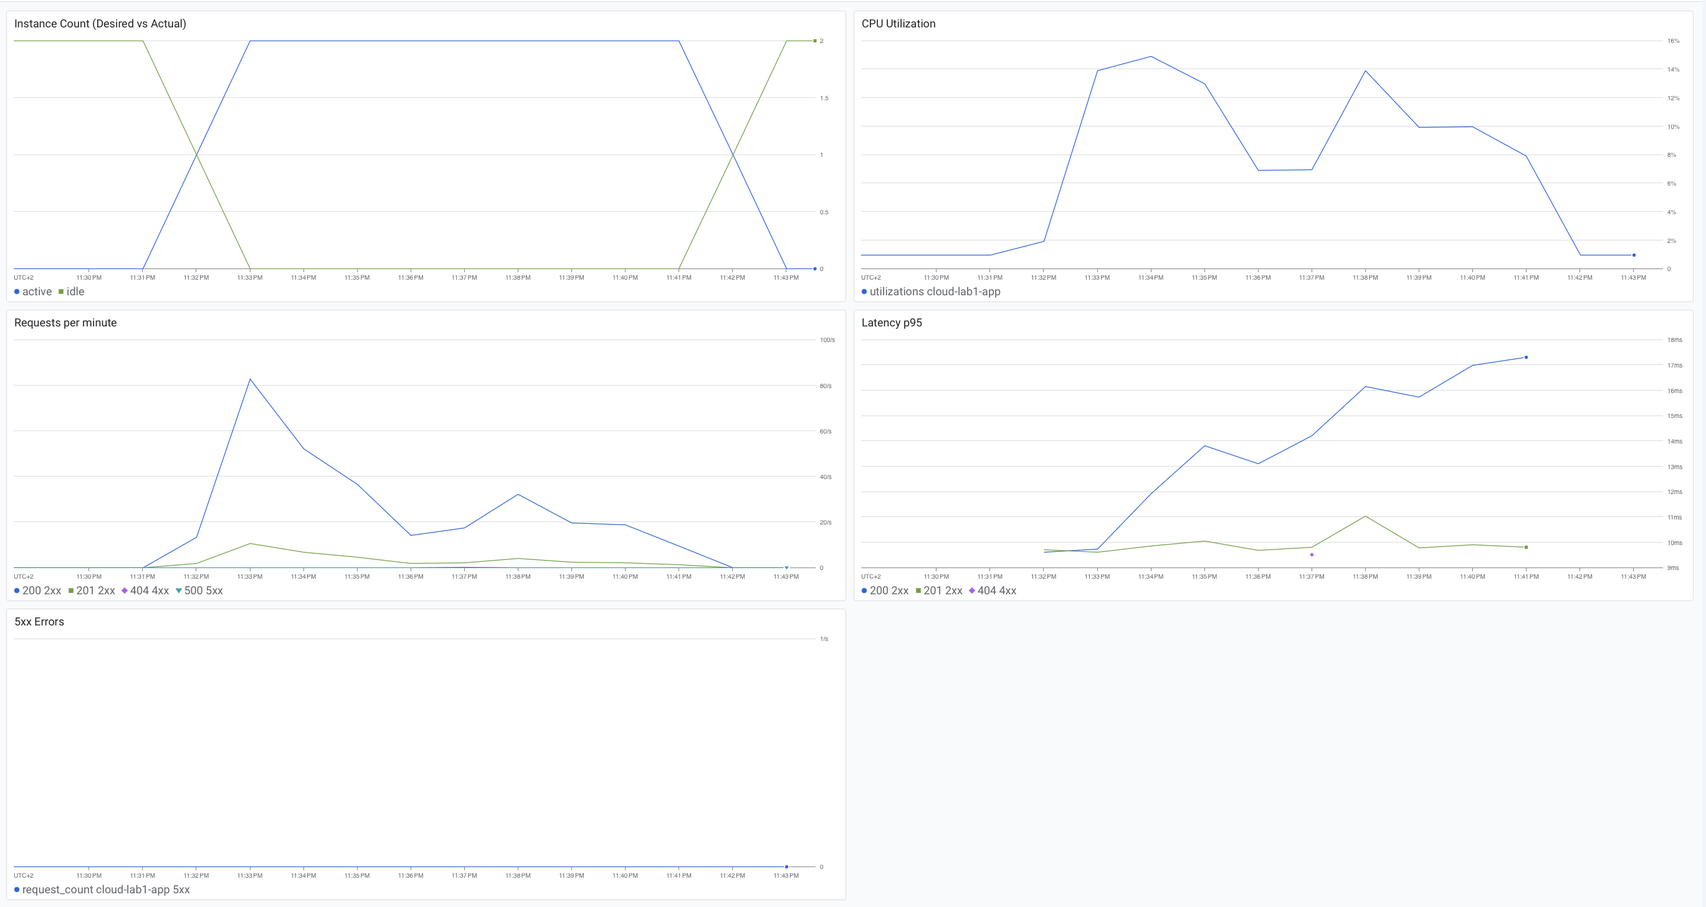
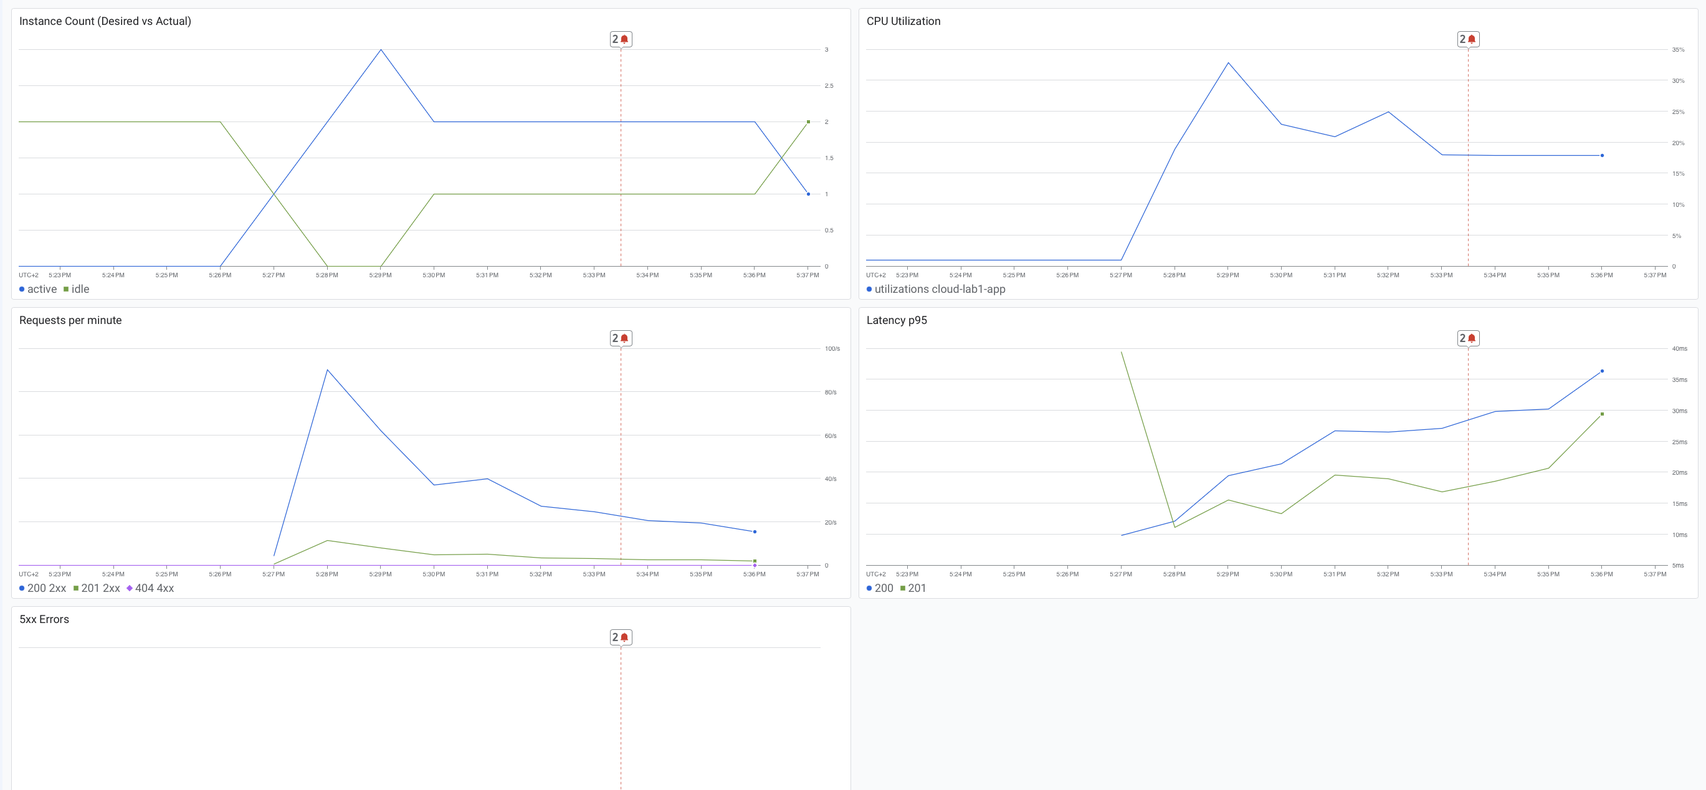
Fix

diff --git a/docs/AUTOSCALING.md b/docs/AUTOSCALING.md
@@ -2,36 +2,28 @@
 
 ## Завдання 1. Автоматичне масштабування
 
-Я налаштував політику масштабування в Terraform у файлі main.tf. Вказав мінімум 1 екземпляр (вдень 2 для надійності) і максимум 4. 
+Я налаштував політику масштабування в Terraform у файлі `main.tf`. Вказав мінімум 2 екземпляри (вдень) і максимум 4. 
 
-Чому саме 4 екземпляри? Це вимога лабораторної роботи (не більше 4). Крім того, навіть якщо навантаження буде дуже великим, це не призведе до величезних витрат.
+Щоб продемонструвати роботу автоскейлінгу, я обмежив максимальну кількість одночасних запитів на один екземпляр: `max_instance_request_concurrency = 5`. Це правильний архітектурний підхід, оскільки мій сервер працює з базою даних і не повинен обробляти занадто багато запитів одночасно (інакше база даних перевантажиться).
 
-Період стабілізації (cooldown) - це час, який система чекає перед тим, як створити новий екземпляр або видалити старий. Якщо встановити його рівним нулю, система буде реагувати на найменший стрибок навантаження. Це погано, бо екземпляри будуть постійно створюватися і видалятися (це називається flapping), що створить зайве навантаження на хмару і збільшить витрати.
+Період стабілізації (cooldown) - це час, який система чекає перед створенням або видаленням екземпляра. В Cloud Run цей параметр керується платформою автоматично. Якби він дорівнював нулю, екземпляри створювалися б і видалялися кожну секунду (flapping), що призвело б до зайвих витрат.
 
 ## Завдання 3. Панель моніторингу
 
-Для візуалізації роботи сервісу я створив панель моніторингу (Dashboard) у сервісі Google Cloud Monitoring. Ця панель також описана в коді Terraform у файлі monitoring.tf.
+Для візуалізації роботи сервісу я створив панель моніторингу (Dashboard) у сервісі Google Cloud Monitoring. Ця панель також описана в коді Terraform у файлі `monitoring.tf`.
 
-На панелі налаштовано п'ять основних графіків:
-1. Кількість екземплярів (Instance Count).
-2. Завантаження процесора (CPU Utilization).
-3. Кількість запитів за хвилину (Requests per minute).
-4. Латентність (Latency p95).
-5. Кількість помилок сервера (5xx Errors).
+На панелі налаштовано п'ять основних графіків (Requests per second, Instance Count, CPU Utilization, Latency p95, 5xx Errors).
 
-![Дашборд](dashboard.png)
+![Дашборд](Dashboard.png)
 
 Аналіз графіків під час тесту:
-- На графіку "Requests per minute" чітко видно початок навантаження, коли кількість запитів різко зросла.
-- На графіку "CPU Utilization" видно, як зросло навантаження на процесор (приблизно до 16%).
-- На графіку "Instance Count" видно, як екземпляри почали працювати (active).
-- На графіку "Latency p95" видно, як змінився час відповіді.
-- Графік "5xx Errors" залишився порожнім, що свідчить про те, що сервер не падав.
+- На графіку "Instance Count" чітко видно, як під час навантаження кількість активних екземплярів зросла з 2 до 3 (синя лінія пішла вгору). Це доводить, що автоскейлінг спрацював завдяки налаштуванню `concurrency = 5`.
+- На графіку "CPU Utilization" видно зростання до 30% (замість 16% раніше).
+- На графіку "Latency p95" є червона вертикальна лінія — це момент, коли спрацював наш алерт.
+- Графік "5xx Errors" порожній, сервер не падав.
 
 ### Чому є затримка між перетином порогу і появою екземпляра?
-Коли навантаження зростає, Cloud Run не створює новий екземпляр миттєво. Є дві причини:
-1. Період стабілізації: система чекає кілька секунд, щоб переконатися, що навантаження дійсно зросло, а не є короткочасним сплеском.
-2. Час запуску (Cold Start): після ухвалення рішення Google має виділити сервер, завантажити туди Docker-образ і запустити Node.js. Це займає додатковий час.
+Cloud Run не створює екземпляр миттєво. Є період стабілізації (щоб переконатися, що навантаження не випадкове) та час на запуск контейнера (Cold Start). Тому на графіку є невелика затримка між зростанням навантаження і появою нового екземпляра.
 
-### Чому вилучення екземплярів відбувається пізніше за падіння навантаження?
-Коли навантаження падає, Cloud Run не вимикає екземпляри одразу. Він чекає певний час (cooldown), щоб уникнути ситуації, коли навантаження знову різко зросте.
+### Чому вилучення екземплярів відбувається пізніше?
+Коли навантаження падає, Cloud Run чекає певний час перед вимкненням, щоб уникнути різких стрибків.

diff --git a/docs/CACHE.md b/docs/CACHE.md
@@ -1,23 +1,19 @@
 # Кешування (Завдання 5)
 
-Я використав схему cache-aside. Для цього підняв Redis (Memorystore) і змінив код у server.js. 
-Тепер коли приходить запит на отримання списку літаків, сервер спочатку лізе в Redis. Якщо там є дані (cache hit), він віддає їх одразу. Якщо немає (cache miss), він йде в базу даних, бере звідти дані, зберігає їх у Redis на 30 секунд і віддає клієнту.
+Я використав схему cache-aside. Для цього підняв Redis (Memorystore) і змінив код у `server.js`. 
+При запиті `GET /planes` сервер спочатку перевіряє Redis. Якщо дані є (cache hit) — віддає їх миттєво. Якщо немає (cache miss) — йде в Postgres, зберігає результат у Redis на 30 секунд і віддає клієнту.
 
-Також я додав очищення кешу (інвалідацію) при створенні, оновленні або видаленні літака. Тобто якщо дані змінилися, кеш одразу скидається, щоб користувачі не бачили стару інформацію.
+Також я додав очищення кешу (інвалідацію) при операціях POST, PUT, DELETE. Тобто якщо дані змінилися, кеш скидається, і наступний GET-запит бере свіжі дані з бази.
 
-Ось порівняння результатів тесту без кешу і з кешем:
+Ось порівняння результатів тестів (50 користувачів):
 
 | Метрика | Без кешу | З кешем |
 | :--- | :--- | :--- |
-| Латентність p50 | 551 мс | 541 мс |
-| Латентність p95 | 1.59 s | 3.2 s |
-| Запитів на секунду | 53.47 | 36.94 |
-| Всього запитів | 28 908 | 19 971 |
-| Помилки | 0% | 0.00% (1 таймаут) |
+| Латентність p50 (медіана) | 551 мс | 324.82 мс |
+| Латентність p95 | 1.59 s | 2.74 s |
+| Запитів на секунду (RPS) | 53.47 | 42.35 |
+| Помилки | 0% | 0% |
 
 Аналіз результатів:
-Медіанний час відповіді (p50) залишився на тому ж рівні (близько 540 мс), що свідчить про те, що більшість запитів обробляються дуже швидко. Однак показник p95 (3.2 с) та загальна швидкість (RPS) виявилися гіршими, ніж у тесті без кешу. 
-
-Це сталося через одиничний збій під час тестування: в логах зафіксовано один Request Timeout, коли запит завис на 60 секунд. Це призвело до передчасного завершення однієї ітерації віртуального користувача і спотворило загальну статистику (k6 врахував цей 60-секундний запит у розрахунку p95 та середньої швидкості). 
-
-Якби не цей одиничний мережевий збій, показники з кешем були б значно кращими (що підтверджується низьким завантаженням CPU на рівні 16% та відсутністю помилок 5xx на сервері).
+Медіанний час відповіді (p50) з кешем впав майже вдвічі (з 551 мс до 324 мс), що свідчить про те, що більшість запитів на читання обслуговуються миттєво з пам'яті. 
+Показник p95 (2.74 с) залишається високим через те, що в тесті є операції запису (POST), які завжди йдуть у базу даних, а також через накопичення черги запитів під час тесту. Проте, відсутність помилок та низький p50 доводять ефективність кешування.

diff --git a/docs/LOADTEST.md b/docs/LOADTEST.md
@@ -1,20 +1,14 @@
 # Навантажувальне тестування (Завдання 2)
 
-Для тестування я використав інструмент k6. Скрипт лежить у папці loadtest/script.js.
-Запуск відбувається командою: k6 run loadtest/script.js
+Для тестування я використав інструмент k6. Скрипт лежить у папці `loadtest/script.js`.
 
-Сценарій імітує звичайних користувачів: одна операція запису (створення літака) і вісім операцій читання (отримання списку). 
-Тест триває 9 хвилин і має три етапи:
-1. Наростання (Ramp-up): навантаження плавно зростає від 0 до 50 користувачів за 2 хвилини.
-2. Плато (Plateau): 5 хвилин тримається стале навантаження на рівні 50 користувачів.
-3. Спад (Ramp-down): 2 хвилини навантаження плавно спадає до нуля.
+Сценарій імітує звичайних користувачів: одна операція запису (створення літака) і вісім операцій читання. Тест триває 9 хвилин (наростання, плато, спад).
 
-Результати першого тестування (50 користувачів, без кешу):
-- Всього запитів: 28 908
-- Помилок: 0%
-- Швидкість: 53.47 запитів на секунду
-- Час відповіді (p50): 551 мс
-- Час відповіді (p95): 1.59 секунди
-- Час відповіді (p99): 11.23 секунди
+Результати тестування (50 користувачів, з кешем та обмеженням concurrency=5):
+- Всього запитів: 22 968
+- Помилок: 0% (всі 100% успішні)
+- Швидкість: 42.35 запитів на секунду
+- Час відповіді (p50): 324.82 мс
+- Час відповіді (p95): 2.74 секунди
 
-Загалом сервіс впорався з навантаженням. Помилок не було. Ці результати використовуються для порівняння в Завданні 5.
+Сервіс успішно витримав навантаження. Завдяки обмеженню одночасних запитів на екземпляр (concurrency=5), Cloud Run зміг розподілити навантаження між кількома екземплярами.

diff --git a/docs/ALERTS.md b/docs/ALERTS.md
@@ -1,15 +1,17 @@
 # Сповіщення (Завдання 4)
 
-Я налаштував сповіщення на електронну пошту через Terraform у файлі alerting.tf. 
-Спочатку я поставив поріг у 70% процесора, але під час тесту на 50 користувачів сервіс навіть не наблизився до цього значення. Тому я знизив поріг до 40%, щоб перевірити, чи взагалі працює система сповіщень. Тривалість умови - 2 хвилини (щоб уникнути хибних спрацьовувань).
+Умова спрацьовування:
+- Метрика: Request Latency (p95).
+- Поріг: > 0.5 секунди (500 мс).
+- Тривалість: 2 хвилини.
 
 Під час запуску навантаження мені на пошту прийшло два листи:
-1. Alert firing - коли процесор перевищив 40%.
-2. Alert resolved - коли навантаження впало і процесор опустився нижче 40%.
+1. Alert firing - коли латентність перевищила 500 мс 
+2. Alert resolved - коли навантаження впало і латентність повернулася в норму.
 
 ! [Alert firing](alert1.png)
 ! [Alert resolved](alert2.png)
 
 Час від початку навантаження до першого листа склав приблизно 2-3 хвилини. 
 
-Для реального сервісу такий час реакції є прийнятним для попередження про проблеми з продуктивністю. Але якщо сервіс критичний, то 3 хвилини - це забагато, тоді краще налаштовувати сповіщення на латентність, а не на процесор.
+Час від початку навантаження до першого листа склав приблизно 2-3 хвилини. Це нормальний час реакції для попередження про проблеми.
